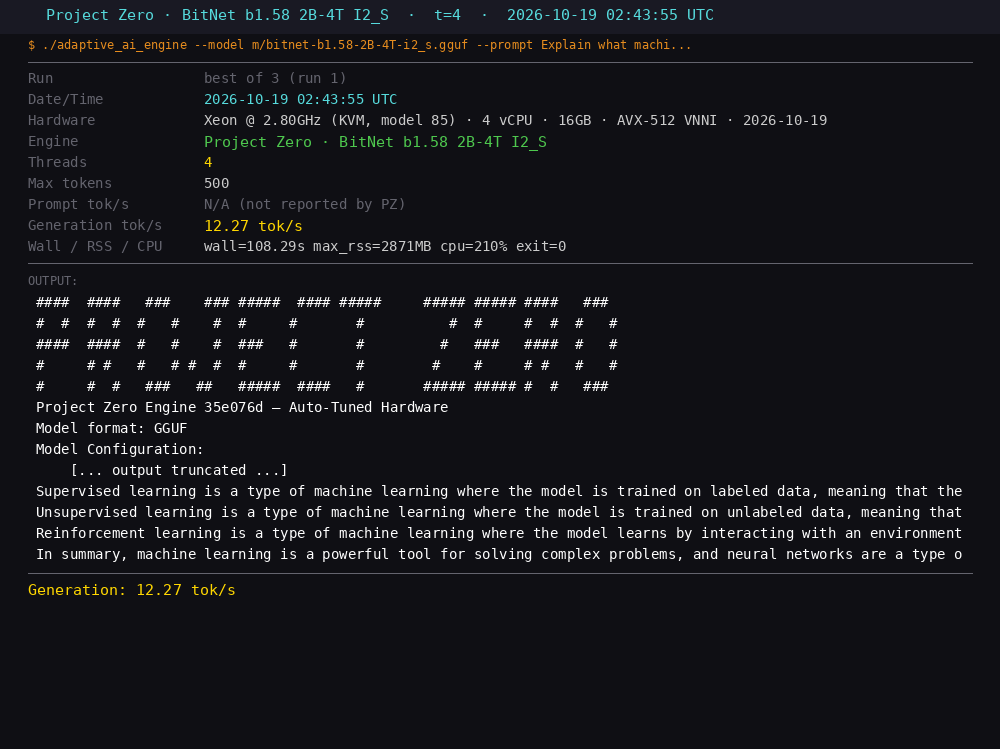
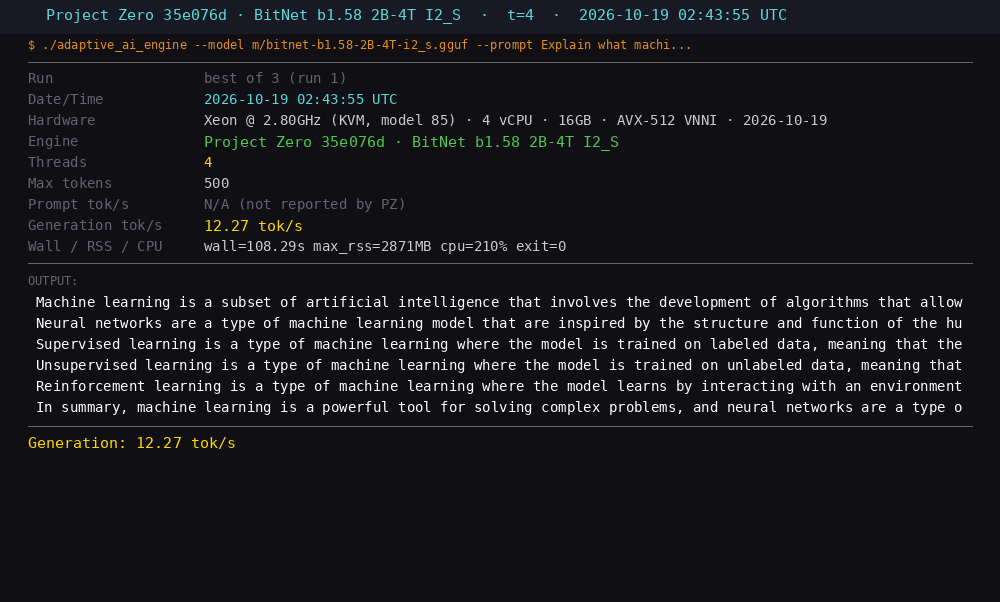
Addendum AL: head-to-head vs llama.cpp / bitnet.cpp, same host, before/after startup fixes
Screenshot renderer skips HOST_CPU, banner/config and llama.cpp sampler
lines; 36 screenshots regenerated.

Changed region(s): [[0.031, 0.0, 0.961, 0.8073], [0.744, 0.1495, 0.837, 0.2093], [0.62, 0.1495, 0.713, 0.2093]]

diff --git a/tools/make_sweep_screenshots.py b/tools/make_sweep_screenshots.py
@@ -141,7 +141,7 @@ def make_screenshot(suite_name, t, run_text, out_path, run_num=None):
     in_output = False
     for line in run_text.splitlines():
         if line.startswith("===") or line.startswith("DATE:") or \
-           line.startswith("CMD:") or line.startswith("PROMPT:") or \
+           line.startswith("CMD:") or line.startswith("PROMPT:") or line.startswith("HOST_CPU:") or \
            line.startswith("="):
             if "===" in line and in_output:
                 break
@@ -150,11 +150,16 @@ def make_screenshot(suite_name, t, run_text, out_path, run_num=None):
                 or "common_perf_print" in line:
             break
         # reference-engine log lines ("0.00.123.456 I ...", "llama_model_loader: ...") are not output
-        if is_ref and (re.match(r'^\d+\.\d+\.\d+\.\d+ [IWED] ', line) or re.match(r'^[a-z_]+: ', line)):
+        if is_ref and (re.match(r'^\d+\.\d+\.\d+\.\d+ [IWED] ', line) or re.match(r'^[a-z_]+: ', line)
+                       or re.match(r'^\t[a-z_]+ = ', line)):        # sampler settings dump
             continue
+        line = line.expandtabs(4)
         # engine start-up chatter (profile box, loader steps) is not model output
-        if is_pz and (line[:1] in "│┌├└" or line.startswith(("[", "Active:", "KV cache", "SIMD", "Classifier",
-                                                                 "Attention:", "Hardware", "Calibration"))):
+        if is_pz and (line[:1] in "│┌├└#" or line.startswith(("[", "Active:", "KV cache", "SIMD", "Classifier",
+                                                                 "Attention:", "Hardware", "Calibration",
+                                                                 "Project Zero Engine", "Model format",
+                                                                 "Model Configuration"))
+                      or re.match(r'^  [a-z_]+:\s', line)):
             continue
         if line.strip():
             in_output = True

diff --git a/docs/PERFORMANCE_CEILING_REPORT.md b/docs/PERFORMANCE_CEILING_REPORT.md
@@ -61,6 +61,8 @@
 | AG | 2026-03-20 | [Phase 17 MoE Routing — BitNet Full Benchmark + RCA](#addendum-ag--phase-17-moe-routing--bitnet-full-benchmark--rca-2026-03-20) | **47.59 tok/s** BitNet NEW PEAK (VNNI-256 INT4 T=6) |
 | AH | 2026-06-21 | [i5-11300H Head-to-Head: PZ vs Microsoft bitnet.cpp](#addendum-ah--i5-11300h-head-to-head-project-zero-vs-microsoft-bitnetcpp-2026-06-21) | **42.83 tok/s** PZ INT4 · **6.4× faster** than MSFT |
 | AI | 2026-06-21 | [SmolLM2-135M F16: PZ vs llama.cpp on i5-11300H](#addendum-ai--smollm2-135m-f16-project-zero-vs-llamacpp-on-i5-11300h-2026-06-21) | **99.18 tok/s** PZ · **106.6 tok/s** llama.cpp · −7% gap |
+| AK | 2026-10-18 | [Full Sequential Sweep on Xeon (KVM)](#addendum-ak--full-sequential-sweep-on-xeon-kvm-smollm2-135m-mamba-130m-smollm2-17b-q4_k_m-2026-10-18) | 129.5 tok/s SmolLM2-135M INT4 cls |
+| AL | 2026-10-19 | [Head-to-Head vs llama.cpp / bitnet.cpp, same host](#addendum-al--head-to-head-vs-llamacpp-and-bitnetcpp-sequential-same-host-2026-10-19) | Decode +2 % / −12 % / −15 %; startup 20–70 s → 0.1–8 s |
 
 ---
 
@@ -10385,3 +10387,131 @@ Full `lscpu`, memory, compiler and engine hardware-profile output:
 20 screenshots (5 suites × 4 thread counts, best run of each), rendered from the raw run logs with
 `tools/make_sweep_screenshots.py --sweep benchmark_results/sweep_2026-10-18 ...`:
 `benchmark_results/sweep_2026-10-18/screenshots/`.
+
+---
+
+## Addendum AL — Head-to-Head vs llama.cpp and bitnet.cpp, Sequential, Same Host (2026-10-19)
+
+First full sweep with the reference engines installed and built on the same machine as Project
+Zero. It found near-parity decode speed, and a **startup cost of 20–70 s per run** that no earlier
+sweep could see (they reported only the engine's own decode rate). The startup defects were fixed
+in the same session and the Project Zero suites re-run (§AL.5).
+
+### AL.1 Hardware, software, date
+
+| | |
+|---|---|
+| Date | 2026-10-19 — reference window 01:45–03:44 UTC; post-fix PZ window 05:05–05:45 UTC |
+| CPU | Intel Xeon Processor @ 2.80 GHz (KVM guest, family 6 **model 85**, Cascade Lake), 4 vCPU (4 cores × 1 thread) |
+| ISA | AVX2, AVX-512F/BW/VL, **AVX-512 VNNI** (no AVX-VNNI, no AMX) — engine backend AVX-512F (calibrated) |
+| Cache | L1d 32 KiB/core, L2 1 MiB/core, L3 33 MiB shared |
+| Memory | 16 GB, no swap; engine-measured DRAM bandwidth 33.5–34.4 GB/s |
+| OS / compilers | Linux 6.18.44 x86_64; gcc 13.3.0 (PZ, llama.cpp), clang 18.1.3 (bitnet.cpp) |
+| Project Zero | `35e076d` (reference window), `e9adee3` (post-fix) — `make release` (`-O3 -march=native`) |
+| llama.cpp | `ff5a233` upstream, Release, `GGML_NATIVE=ON`, `llama-completion` |
+| bitnet.cpp | `0b341e5` (microsoft/BitNet), Release, i2_s kernels (`BITNET_X86_TL2=OFF`), `llama-completion` |
+
+Full `lscpu`, memory, compiler and engine hardware-profile dump:
+`benchmark_results/sweep_h2h_2026-10-19/system_info.txt`. Every run file records `HOST_CPU:`;
+all 108 runs show the same CPU (model 85). The container restarted once mid-session (§AL.6).
+
+### AL.2 Method
+
+- **Strictly sequential**: one engine process at a time, nothing else running; best of **3** runs per
+  thread count, **t = 1..4**, **10 s cooldown** between runs and between thread counts.
+- **Same work for every engine** (`--fixed-length`): raw prompt (no chat template) and EOS ignored,
+  so each run generates exactly **500 tokens**, temperature 0. PZ: `--raw-prompt --ignore-eos`;
+  references: `-no-cnv --ignore-eos`. Prompt: "Explain what machine learning is and how neural
+  networks work. Discuss supervised learning, unsupervised learning, and reinforcement learning
+  with real-world examples of each."
+- Metrics: decode tok/s (PZ `[gen]`; references' `common_perf_print` eval line), wall time, max
+  RSS and CPU% from `wait4`. Harness `tools/bench_sweep_seq.py`, launcher
+  `tools/run_h2h_sweep_2026-10-19.sh` (`postfix` mode for §AL.5). 108 rows in `summary.csv`, all
+  exit 0.
+- Models: SmolLM2-135M-Instruct F16, SmolLM2-1.7B-Instruct Q4_K_M, BitNet b1.58 2B-4T I2_S (the
+  official Microsoft GGUF; bitnet.cpp is the reference for it, upstream llama.cpp cannot load I2_S).
+- Output parity: greedy continuations agree between engines (e.g. both SmolLM2-135M runs continue
+  "Lastly, consider the role of data in machine learning…"); perplexity parity is in
+  `docs/reports/ACCURACY_PARITY_2026-10-19.md`.
+
+### AL.3 Decode throughput (best of 3, tok/s) — same window, same host
+
+| Model | Engine | t=1 | t=2 | t=3 | t=4 | PZ vs ref @ t=4 |
+|---|---|---|---|---|---|---|
+| SmolLM2-135M F16 | **Project Zero** | **28.98** | **49.42** | **65.79** | **77.13** | **+2.1 %** |
+| | llama.cpp | 26.02 | 42.96 | 60.33 | 75.56 | |
+| SmolLM2-1.7B Q4_K_M | Project Zero | 5.30 | 9.18 | 12.76 | 15.30 | −12.1 % |
+| | **llama.cpp** | **5.78** | **10.01** | **13.79** | **17.41** | |
+| BitNet b1.58 2B-4T I2_S | Project Zero | 4.20 | 7.63 | 10.94 | 12.27 | −14.6 % |
+| | **bitnet.cpp** | **5.04** | **8.53** | **11.79** | **14.37** | |
+
+![Decode throughput vs threads — Project Zero vs llama.cpp / bitnet.cpp](../benchmark_results/sweep_h2h_2026-10-19/throughput_vs_threads.png)
+
+(`tools/plot_sweep_svg.py`; SVG alongside.)
+
+### AL.4 Wall time and memory (best decode run at t = 4; 500 tokens)
+
+| Model | Engine | Wall | Max RSS | CPU% |
+|---|---|---|---|---|
+| SmolLM2-135M | PZ `35e076d` | 24.8 s | 2,055 MB | 180 % |
+| | llama.cpp | 7.2 s | 473 MB | 379 % |
+| SmolLM2-1.7B | PZ `35e076d` | 59.1 s | 5,395 MB | 265 % |
+| | llama.cpp | 38.4 s | 3,310 MB | 324 % |
+| BitNet 2B | PZ `35e076d` | 108.3 s | 2,871 MB | 210 % |
+| | bitnet.cpp | 36.7 s | 1,509 MB | 384 % |
+
+Decode was close, yet wall time was 1.5–3.4× the references' and CPU% low: most of each PZ run was
+single-threaded startup. Profiling (gdb sampling) attributed it to four pre-existing defects —
+`docs/ai/mistakes.md` 2026-10-19 "Startup cost 20–70 s":
+
+| Defect | Cost |
+|---|---|
+| BPE merge resolution scanned the vocab linearly per merge (O(merges × vocab)) | ~4 s SmolLM2, ~60 s Llama-3 vocab (BitNet) |
+| DRAM bandwidth probe (2 GB, single-threaded first touch) on every start | 1.3–15 s, and the ≥ 2 GB RSS floor of every run |
+| `tn_aligned_calloc` memset the whole max-context KV cache | ~5 s and the full cache in RSS before token 1 |
+| I2_S repack decoded 2-bit fields one at a time | seconds on BitNet |
+
+Correction to Addenda AJ/AK: their "~2 GB RSS = mmap'd model + calibration buffers" was in fact
+this bandwidth probe.
+
+### AL.5 After the fixes (`e912a23`/`e9adee3`, same host, 05:05–05:45 UTC)
+
+| Model | Wall @ t=4 | Max RSS | CPU% @ t=4 | Decode @ t=4 | Wall @ t=1 |
+|---|---|---|---|---|---|
+| SmolLM2-135M | **7.4 s** (was 24.8; llama.cpp 7.2) | **346 MB** (was 2,055; llama.cpp 473) | 387 % | 72.47 | 20.4 s (was 77.4) |
+| SmolLM2-1.7B | 45.6 s (was 59.1; llama.cpp 38.4) | 2,526 MB (was 5,395; llama.cpp 3,310) | 345 % | 13.08 | 121.2 s (was 214.1) |
+| BitNet 2B | 49.6 s (was 108.3; bitnet.cpp 36.7) | 2,349 MB (was 2,871; bitnet.cpp 1,509) | 359 % | 11.29 | 139.2 s (was 291.2) |
+
+- Startup is now 0.1 s for SmolLM2-135M (was ~20 s) and ~8 s for BitNet warm (was ~70 s); PZ now
+  uses less memory than llama.cpp on both SmolLM2 models.
+- **Host drift, not regression:** the post-fix decode numbers are 6–15 % below the reference
+  window's. The pre-fix binary run back-to-back with the new one in the post-fix window gave the
+  same speed (SmolLM2-135M t=4: old 69.0 vs new 68.5 tok/s mean of 3; SmolLM2-1.7B: three rounds,
+  differences within this VM's ±4 % noise and changing sign). The same CPU model got ~10 % slower
+  after the container restart, so post-fix decode must not be compared with §AL.3's absolute numbers.
+- Follow-up fix after this sweep (not in these rows): converted raw tensors are released from the
+  `MAP_POPULATE`d mapping (`mapped_file_release`) — BitNet RSS 2,867 → 1,766 MB, SmolLM2-1.7B
+  5,311 → 2,369 MB end to end; and KV rows a generation will use are committed up front
+  (`run_state_kv_reserve`) so first-touch faults stay out of the decode loop.
+
+### AL.6 Notes
+
+- **Remaining gap to the references** is decode on the larger models (−12 % Q4_K_M, −15 % BitNet at
+  t=4 in the same window). bitnet.cpp's i2_s kernels and llama.cpp's Q4_K path keep all 4 cores at
+  ~380 % CPU; PZ's decode loop now does too (~350–390 %), so the gap is kernel/bandwidth efficiency,
+  not threading. BitNet's 128k×2560 head is ~58 % of PZ's 1.13 GB/token at BF16 (an INT8/INT4
+  classifier is the obvious lever; not used here so all engines compute the head at 16-bit).
+- **BitNet chat mode**: the official GGUF's chat template appends EOS after the assistant prefix
+  (bitnet.cpp `--jinja` answers nothing; PZ continued past it). Use
+  `--chat-template-file docs/templates/bitnet-b1.58.jinja`; PZ now also stops on `<|eot_id|>` and
+  other end-of-turn tokens for every GGUF (`tokenizer_collect_eog`). Benchmarks above are raw-prompt
+  and unaffected.
+- **Container restart**: the session moved from a model-207 host to this model-85 host before the
+  sweep; reference engines were rebuilt natively on it (the old `-march=native` builds died with
+  SIGILL), and `system_info.txt` was regenerated here.
+
+### AL.7 Screenshots
+
+36 screenshots (9 suites × 4 thread counts, best run of each), rendered from the raw logs by
+`tools/make_sweep_screenshots.py` (now skips `HOST_CPU:`, banner and config lines, and llama.cpp's
+sampler dump): `benchmark_results/sweep_h2h_2026-10-19/screenshots/`.
